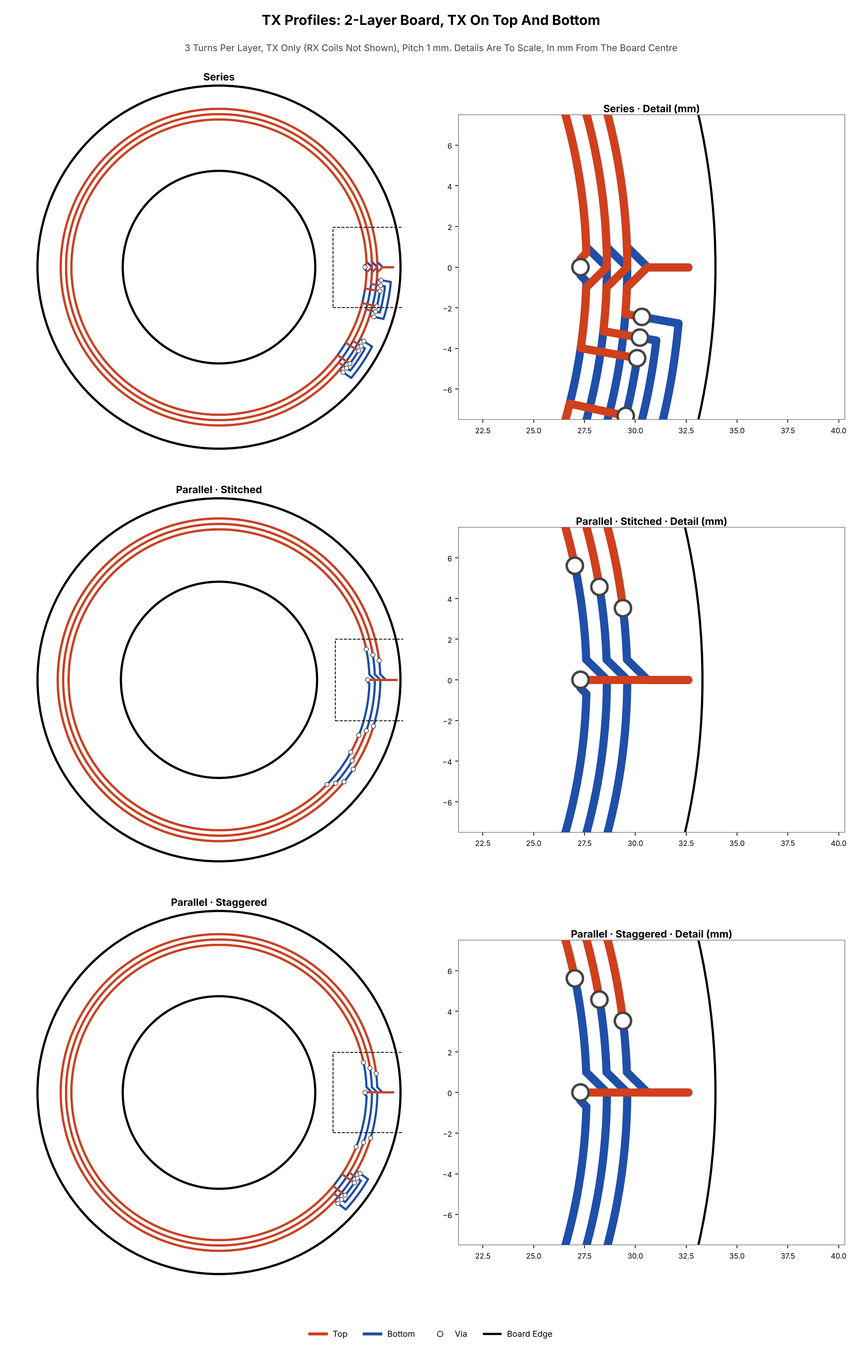
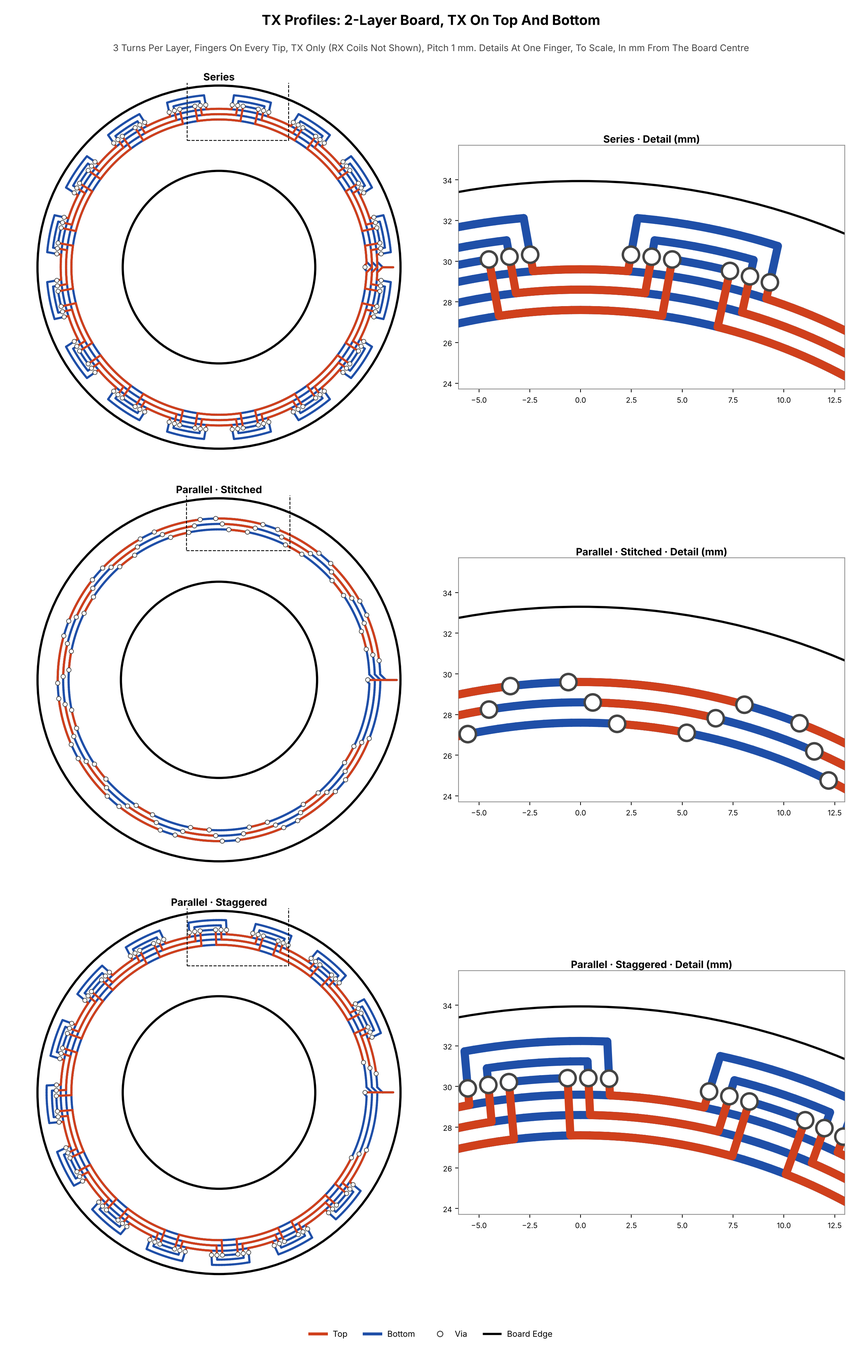
Pictures remade from the current generators; wiki review fixes
Pictures that differ from what the current Single Generator draws are remade:
TX Profiles 2 and 3 (fingers on every tip, close-up at one finger, so that
stitched and staggered differ), TX Profiles 4, Stator 6 and 7, Rotor 1 and 2,
Output 1 (silkscreen step and file), KiCad 1 (current title blocks), and
panel B of Introduction 1 and the README stator/rotor picture.

Wiki text fixed after a full review against the code: dual sub-coil refusal,
parallel TX inductance and Q, the dual TX terminal search, ring 1 over TX1,
the dual outline rule, BAND_SPLIT mode, rotor ranges, the wrong-file warning,
Web Tool facts, RX_TAB_LAYER on 2 layers, parallel Q factors, the checks page,
--keep, DUAL_MODE 4, contact link, next steps. CONTRIBUTING covers the Dual
Generator and both regression suites.

diff --git a/docs/wiki/Checks-Errors-And-Warnings.md b/docs/wiki/Checks-Errors-And-Warnings.md
@@ -66,22 +66,16 @@ DRC cannot see a TX turn touching another TX turn.
 | Resolution | A fixed `STEPS_PER_LOOP` or `TX_STEPS` giving a chord error above 0.01 mm, or a fixed `ROTOR_ARC_STEPS_PER_SECTOR` giving one above 0.05 mm (warning; the chord tolerances are not used for these). With "auto" the count is chosen from the chord tolerance instead; for the RX coils a warning appears if more than 1024 chords per loop would be needed (the count then stops at 1024). With S chords per loop the tip vias can only sit at about 45 + 720 / S to 135 − 720 / S electrical degrees. If `RX_VIA_ELECTRICAL_DEG` is outside that, the vias move to the nearest end, with a warning (with `GENERATOR_MODE = "strict"` the board is refused). |
 | Board edge | `OUTER_EDGE_RADIUS_MM` cutting through the outermost TX turn, the fingers or the TX tail (errors); inner-tip vias running over the centre hole; a via touching copper of another net (error). |
 | Rotor | Rotor metal fraction giving a weak fundamental (warning) or removing a harmonic (info); rotor copper with no width; custom rotor sector count different from `LOOPS`; custom radii out of order, copper too near the bore or the outline; solder-mask opening reaching the bore or outline; `ROTOR_ARC_STEPS_PER_SECTOR` giving a coarse arc (warning), or so few chords that the corners of the rotor copper cross the outline (error). |
-| Files | Stator and rotor file names equal (error); names not ending in `.kicad_pcb`; `OUTPUT_DIR` not a writable folder, or a missing folder that cannot be created (errors). |
+| Files | Stator and rotor file names equal (error); names not ending in `.kicad_pcb` (warning); `OUTPUT_DIR` not a writable folder, or a missing folder that cannot be created (errors). |
 | Chord tolerances | Each of `RX_CHORD_TOLERANCE_MM`, `TX_CHORD_TOLERANCE_MM` and `ROTOR_CHORD_TOLERANCE_MM` must be at least 0.001 mm (error below that). |
 | IC limits | `IC_OSC_MIN_MHZ` not below `IC_OSC_MAX_MHZ` (error); a `RECEIVER_IC` line from an older version (warning: it is ignored, the receiver IC is now set in `IC_Parameters.py`). |
-| Silkscreen | The lead-cutting suggestion, the last step of a run, never stops a generation. A wrong value in `SilkScreenSuggestion_Parameters.py` falls back to its default (warning); no spot with room for a break within `SILKSCREEN_SEARCH_SPAN_DEG`, no two via sites near the TX ends, no free place for a name, or a missing font (warnings: that part is not drawn, the boards are written). See [Silkscreen](Silkscreen.md). |
+| Silkscreen | The lead-cutting suggestion, the last step of a run, never stops a generation. A wrong value in `SilkScreenSuggestion_Parameters.py` falls back to its default (warning); no spot with room for a break within `SILKSCREEN_SEARCH_SPAN_DEG`, no two via sites near the TX ends, or a missing font (warnings: that part is not drawn, the boards are written); no free place for a name (warning: the name is drawn at its default spot, where it may cover other marks or vias). See [Silkscreen](Silkscreen.md). |
 | Page | The stator board, or a rotor board that reaches farther out than the stator, comes close to the top or left of its KiCad page (warning; the page grows right and down automatically). |
 
 Each message names the setting, its value and the limit it broke, and many also say what to change. The Web Tool shows the same messages; see
 [Web Tool](Web-Tool.md#46-errors-and-warnings).
 
-## 23.4 Electrical Checks
-
-The [electrical estimate](Electrical-Estimate.md) adds its own findings, checked against the receiver IC limits in
-`IC_Parameters.py`: oscillator frequency out of range and tank resistance too low. When only the lower end of the tank resistance
-range is below the limit, you get an info line that gives the range, not a warning.
-
-### 23.4.1 TX Shape Checks
+### 23.3.1 TX Shape Checks
 
 | Message | Level |
 |---|---|
@@ -90,18 +84,26 @@ range is below the limit, you get an info line that gives the range, not a warni
 | `TX_STEPPED_ARC_RADIUS_MM` below via radius + half a TX trace + clearance | Warning: the innermost arc comes within the clearance of the via (KiCad's DRC does not see it, all TX is one net) |
 | Smallest gap between TX copper pieces around the via below `MIN_CLEARANCE_MM` | Warning |
 
+## 23.4 Electrical Checks
+
+The [electrical estimate](Electrical-Estimate.md) adds its own findings, checked against the receiver IC limits in
+`IC_Parameters.py`: oscillator frequency out of range and tank resistance too low. When only the lower end of the tank resistance
+range is below the limit, you get an info line that gives the range, not a warning.
+
 ## 23.5 Examples Of Boards The Generator Refuses
 
 | Situation | Why |
 |---|---|
 | 16 loops on a very small board (outer radius below about 26 mm) | The tip vias crowd at small bore radii; a quarter loop needs at least 1.2 mm of arc at the RX inner edge. On many such boards a via touches copper of another net, which is an error; some only get via clearance warnings, and those are refused only with `GENERATOR_MODE = "strict"`. See the board size table in [Project Capabilities](Project-Capabilities.md#51-board-size-range). |
-| 2 sub-coils with 4 or more loops at the default band | The vias that join the sub-coils do not fit between the curves, or a via touches copper of another net. Use 1 sub-coil, fewer loops or a wider band. |
-| `RX_TABS = "all"` on a small board when the TX turns go around the fingers (the fingers on a layer with TX turns) and there are several loops (on a board of 15 to 27 mm with a series TX on Top + Inner-1, 4 loops fail even at the default 0.6 mm pitch) | A TX window under an RX finger would reach the TX terminal. Use `RX_TABS = "single"`, a smaller pitch or a bigger board. A longer pitch also needs longer fingers; the message states the `RX_TAB_LENGTH_MM` needed. |
+| 2 sub-coils at the default band, with 4 loops and fingers (`RX_TABS = "all"` or `"single"`), or with 5 or more loops | A via touches copper of another net, or the vias that join the sub-coils do not fit between the curves. Without fingers (`RX_TABS = "none"`) 4 loops build, with a via clearance warning. Use 1 sub-coil, fewer loops or a wider band. |
+| `RX_TABS = "all"` on a small board when the TX turns go around the fingers (the fingers on a layer with TX turns) and there are several loops (on a board of 15 to 27 mm with a series TX on Top + Inner-1, 4 loops fail at the default 0.6 mm pitch, and a smaller pitch makes it worse) | A TX window under an RX finger would reach the TX terminal; the smaller the pitch, the farther the window reaches. Use `RX_TABS = "single"`, the fingers on a layer without TX turns (`RX_TAB_LAYER`), a parallel TX, fewer `TX_TURNS` or a bigger board. |
 
 ## 23.6 Dual Generator
 
-The Dual Generator's rules live in `Dual Generator/Dual_Generator/Checks/` (`Dual_ParameterRules.py`,
-`Dual_DesignChecks.py`, run by `Dual_CheckParameters.py`). From the `Dual Generator` folder:
+The Dual Generator's rules live in `Dual Generator/Dual_Generator/Checks/`: `Dual_ParameterRules.py`, run by
+`Dual_CheckParameters.py` before anything is built, and `Dual_DesignChecks.py`, run on the built copper. The checker on
+its own builds nothing, so it does not measure the gap between the sets or the rotor rings; `--check` and a run do.
+From the `Dual Generator` folder:
 
 ```bash
 python Dual_Generator/Checks/Dual_CheckParameters.py
@@ -110,8 +112,8 @@ python Dual_Generator/Run/Dual_RunCoilGenerator.py --check    # check only, writ
 
 The run checks in this order: the dual files and the dual rules, the layout mode, then the Single Generator's own
 parameter checks on each set. After the build: the Single Generator's checks on each set's finished copper, then the
-dual checks on the two sets together and on the two rotor rings. A message about one set starts with `set 1:` or
-`set 2:`. `GENERATOR_MODE` in `Dual_Board_Parameters.py` works as on a single board.
+dual checks on the two sets together and on the two rotor rings. A message about one set names it: its explanation
+line starts with `set 1:` or `set 2:`. `GENERATOR_MODE` in `Dual_Board_Parameters.py` works as on a single board.
 
 | Area | What the rules look for |
 |---|---|
@@ -119,7 +121,7 @@ dual checks on the two sets together and on the two rotor rings. A message about
 | Fixed values | Any value in `Dual_Fixed_Parameters.py` other than its fixed one (error, saying why it is fixed). `TX_WIRING = "single"` (error: a dual board uses series or parallel). |
 | Layout mode | A value `DUAL_MODE` needs that is `None`, or a value that must be `None` and is set (error naming every such value, and the mode that matches what is set when one does). A band given by half a pair, or by both pairs (error). A board too small for two bands in mode 1 (error, giving the outer radius it needs). Two sets that run into each other (error, giving the RX2 band start needed), or a bore with no room inside the RX1 band (error). In mode 4 each edge is held against its set's band and TX ring by the Single Generator's own edge rules. |
 | Nets | A net name used twice across the two sets (error: KiCad would join the two coils). |
-| Frequencies | `EXCITATION_FREQ_HZ` of the two sets closer than `TX_FREQ_SEPARATION_MIN` (warning), or within `TX_FREQ_RATIO_TOLERANCE` of a small integer ratio (warning); otherwise an info that two free-running tanks have not been shown to work and must be proven on the first board. |
+| Frequencies | `EXCITATION_FREQ_HZ` of the two sets closer than `TX_FREQ_SEPARATION_MIN` (warning), or within `TX_FREQ_RATIO_TOLERANCE` of a small integer ratio (warning). Whenever the separation is met, also an info that two free-running tanks have not been shown to work and must be proven on the first board. |
 | Layers | Set 2 using all four layers, so no layer is free for set 1's leads (warning). |
 | Rotor settings | `ROTOR_AUTO_COVER_TX = True` for ring 1, which puts the coarse half moon next to the fine band (warning). |
 | Gap between the sets | Measured on the built copper: less than `TRACK_GAP_MM` (modes 1 and 3) or `MIN_CLEARANCE_MM` (modes 2 and 4) is an error that says how far to move the RX2 band out; a difference from the layout formulas larger than `LAYOUT_TOLERANCE_MM` is a warning. Copper of one set inside the other set's ring is always an error. |
@@ -130,6 +132,7 @@ dual checks on the two sets together and on the two rotor rings. A message about
 For example, the default board with a parallel TX at the default pitch:
 
 ```text
+ERROR   TX_PITCH_MM conflicts with VIA_DIAMETER_MM and TX_WIRING
 set 1: a pitch of 0.35 mm is too small for the stitching vias of the parallel TX (a turn next to a 0.6 mm via must bend 0.21 mm away and would then touch the turn beyond it). Raise TX_PITCH_MM to at least 0.43 or use smaller vias
 ```
 

diff --git a/docs/wiki/Parameter-Reference-Single-Generator.md b/docs/wiki/Parameter-Reference-Single-Generator.md
@@ -2,7 +2,7 @@
 
 Every setting of the Single Generator lives in a parameter file in `Single Generator/Parameters/`. These are the only files you edit. Units are millimetres,
 degrees and hertz unless a name says otherwise. The **Range** column is what the parameter checker accepts; "None"
-usually means the generator works the value out itself (the row says what it does). The Web Tool shows the same names in its Advanced mode, except the output settings of 21.1.1 (`GENERATOR_MODE` is its Strict switch), and the electrical estimate settings of 21.1.4 and 21.5, which it does not use. The Dual Generator's files are described in
+usually means the generator works the value out itself (the row says what it does). The Web Tool shows the same names in its Advanced mode, except the output settings of 21.1.1 (`GENERATOR_MODE` is its Strict switch), and the electrical estimate settings of 21.1.4 and 21.5, which it does not use. `VIA_TYPE` and the silkscreen settings of 21.6 are not in it either: the Web Tool runs an older copy of the generator, without blind vias and without the silkscreen suggestion. The Dual Generator's files are described in
 [Parameter Reference Dual Generator](Parameter-Reference-Dual-Generator.md).
 
 `Parameters.py` only gathers the five coil parameter files and is not edited. `SilkScreenSuggestion_Parameters.py` is read by the last step of a run (21.6). `OptimizerParameters.py` belongs to the optimizer, which is
@@ -101,7 +101,7 @@ two values of a pair go together. See [Web Tool](Web-Tool.md) for the None switc
 | Name | Default | Range | Meaning |
 |---|---|---|---|
 | `RX_TABS` | `"all"` | `all`, `single`, `none` | Fingers that leave the RX band, cross over the TX turns and return, so the coils can be broken out outside the TX ring. `all` = every outer tip of every phase; `single` = one per coil (two fingers in all), on neighbouring outer tips, with the TX terminal placed as close to them as the clearances allow; `none` = no fingers. |
-| `RX_TAB_LAYER` | `"auto"` | auto, 1 to 4 | Layer of the fingers. "auto" = the RX layer nearest the top that carries no TX turn. When both RX layers carry TX turns, it is the RX layer nearest the top, and the TX makes way for the fingers there. |
+| `RX_TAB_LAYER` | `"auto"` | auto, 1 to 4 (on 2 layers: auto, 1 or 4) | Layer of the fingers. "auto" = the RX layer nearest the top that carries no TX turn. When both RX layers carry TX turns, it is the RX layer nearest the top, and the TX makes way for the fingers there. |
 | `RX_TAB_LENGTH_MM` | 3.0 | ≥ 0 (*only if* fingers) | The exact finger length: the finger reaches `OUTSIDE_RADIUS_MM` plus this. It is never changed for you. When it is too short to clear the outermost TX turn (or the outermost go-around bracket) the generator stops and names the length it needs ("Set RX_TAB_LENGTH_MM to at least ..."). A longer TX pitch needs longer fingers. A spiral TX (`TX_SHAPE = "spiral"`) needs them one pitch longer, since its last turn ends one pitch farther out. With the defaults that is at least 3.5 mm, so the default 3.0 is too short. |
 | `RX_TAB_WIDTH_MM` | 1.0 | > 0 (*only if* fingers) | Spacing of the finger's two legs. Keep at 0.6 or more for etching; narrower disturbs the signal less. A spacing too wide for the loop count or the finger length is cut back, with a warning that gives the spacing used. The legs may span at most about 90 electrical degrees, and the straight middle piece between them must not dip back into the RX band (a longer finger allows wider legs). |
 
@@ -132,7 +132,7 @@ Layers are numbered 1 = Top, 2 = Inner-1, 3 = Inner-2, 4 = Bottom (a 2-layer boa
 
 | Name | Default | Range | Meaning |
 |---|---|---|---|
-| `TX_WIRING` | `"single"` | `single`, `series`, `parallel` | How many layers carry TX turns and how they are joined. `single`: `TX_TURNS` turns on `TX_LAYER_A`, the inner tail on the underpass layer. `series`: `TX_TURNS` turns on each of two layers, joined by a via at the inner end (two spirals, same sense, fields add). `parallel`: the same turns on both layers, stitched through vias around the terminal. It gives about 6 % more signal than Top alone (Analyser figure, to be verified). In the electrical estimate the Q is only about 1.3 to 1.8 times higher, since the inductance drops as well. It is about 1.3 times with the stitched break style on a 1.6 mm 2-layer board. A thinner board, the staggered break style (about 1.45 times) or a 4-layer board give more, up to about 1.8 times with Top and Inner 1. Put `TX_LAYER_A` on Top for parallel. Capitals do not matter. |
+| `TX_WIRING` | `"single"` | `single`, `series`, `parallel` | How many layers carry TX turns and how they are joined. `single`: `TX_TURNS` turns on `TX_LAYER_A`, the inner tail on the underpass layer. `series`: `TX_TURNS` turns on each of two layers, joined by a via at the inner end (two spirals, same sense, fields add). `parallel`: the same turns on both layers, stitched through vias around the terminal. It gives about 6 % more signal than Top alone (Analyser figure, to be verified). In the electrical estimate the Q is only about 1.3 to 1.8 times higher, since the inductance drops as well. It is about 1.3 times with the stitched break style on a 1.6 mm 2-layer board. A thinner board, the staggered break style (about 1.45 times) or a 4-layer board give more: with Top and Inner 1 about 1.55 times stitched, 1.7 times staggered and 1.8 times without fingers. Put `TX_LAYER_A` on Top for parallel. Capitals do not matter. |
 | `TX_LAYER_A` | 4 | 1 to 4 | The TX layer (or, for series, the spiral that runs inwards from the terminal). |
 | `TX_LAYER_B` | 1 | 1 to 4, different (*only if* series or parallel) | The second TX layer (or the spiral that runs back out). |
 | `TX_SERIES_UNDERPASS_LAYER` | `"auto"` | auto, 1 to 4 (*only if* single or series) | Layer of the inner tail (single) and of the go-around brackets. |

diff --git a/docs/wiki/Web-Tool.md b/docs/wiki/Web-Tool.md
@@ -2,8 +2,9 @@
 
 Design the stator and rotor boards of a sinusoidal inductive encoder in your browser, see them straight away,
 and download them as KiCad files. No installation and no account: everything runs on your own computer, and
-nothing is sent to a server. The web tool runs the same generator as the desktop version, so the same settings
-give the same boards.
+nothing is sent to a server. The web tool runs the Single Generator unchanged, so the same settings give the same
+boards. It runs the copy on the `WebUI` branch, which is older than `main`: it has no silkscreen suggestion and no blind
+vias.
 
 **[Open The Web Tool](https://ro-h-bots.blogspot.com/p/inductive-encoder-sinusoidal-coil.html)**
 
@@ -25,7 +26,7 @@ The tool adapts to both landscape and portrait monitors. Both pictures show a ge
 
 ## 4.2 Features
 
-- **Basic and Advanced modes.** Basic has the main settings; Advanced has every parameter except the output settings and the two that only feed the electrical estimate. Both use the same
+- **Basic and Advanced modes.** Basic has the main settings; Advanced has every parameter except the output settings and the ten that only feed the electrical estimate. Both use the same
   four tabs: Board, RX, TX and Rotor, and a change in one mode shows in the other.
 - **Live board preview** of the stator, the rotor, or both together, with each copper layer in its own colour
   (Top red, Bottom blue, Inner-1 green, Inner-2 dark yellow), the same colours as the pictures in this wiki except a lighter blue for Bottom.
@@ -63,7 +64,7 @@ Every Basic setting is also in Advanced, under the same name.
 
 ### 4.4.2 Advanced
 
-Every parameter of the generator, grouped as in the parameter files, with two exceptions. The Output block of `Board_Parameters.py` (folder, file names, board centre, page size and `GENERATOR_MODE`, which is the **Strict** switch) is not shown. Neither are `RECEIVER_IC` and `COPPER_THICKNESS_UM`, which only feed the electrical estimate. Each one shows its parameter name, and the
+Every parameter of the generator, grouped as in the parameter files, with two exceptions. The Output block of `Board_Parameters.py` (folder, file names, board centre, page size and `GENERATOR_MODE`, which is the **Strict** switch) is not shown. Neither are the ten settings that only feed the electrical estimate: `COPPER_THICKNESS_UM`, `COPPER_CONDUCTIVITY_S_M`, `TX_AC_RESISTANCE_FACTOR`, `STACKUP_PREPREG_MM`, `TANK_CAP_SERIES` and the five of `IC_Parameters.py` (`IC_NAME`, `IC_OSC_MIN_MHZ`, `IC_OSC_MAX_MHZ`, `IC_MIN_RP_OHM`, `IC_SPLIT_TANK_CAPS`). Each one shows its parameter name, and the
 **↺** button puts it back to its starting value. Settings the current design does not use are greyed out and
 marked "not used now". A changed setting gets a dot before its name.
 
@@ -91,7 +92,7 @@ The RX band is the ring the receiver coils swing across. You can give it in one 
 - **Strict** (`GENERATOR_MODE = "strict"`) turns every warning about the finished boards into an error, so such a design is not generated.
 - **Checks** lists the errors and warnings. Turn on **Info** to also see the generator's notes.
 - **Summary** shows the generator's full report on the stator and the rotor.
-- **Download Zip** gives both boards, `Parameters.txt` and the four parameter files. **Download Stator** and
+- **Download Zip** gives both boards, `Parameters.txt` and the five parameter files (Board, RX, TX, Rotor and IC). **Download Stator** and
   **Download Rotor** give one `.kicad_pcb` each.
 
 ## 4.6 Errors And Warnings
@@ -134,7 +135,7 @@ The preview tools only change what you see, never the boards.
 
 ## 4.8 Saving, Sharing And Starting Over
 
-- **Export Parameters** downloads the four parameter files, ready for the desktop version.
+- **Export Parameters** downloads the five parameter files, ready for the desktop version.
 - **Import Parameters** loads a `Parameters.txt` from any run (web or desktop) or your own parameter files.
 - **Share Link** copies a link that opens the tool with your design. Only your changes are in the link, and
   nothing is uploaded.
@@ -142,7 +143,7 @@ The preview tools only change what you see, never the boards.
 
 ## 4.9 What The Web Tool Does Not Include
 
-The web tool makes the boards only. The receiver IC support, the electrical estimate, the optimizer and the analyser of the desktop project are not part of it.
+The web tool makes the boards only. The receiver IC support, the electrical estimate, the optimizer and the analyser of the desktop project are not part of it, and neither are the silkscreen suggestion, blind vias (`VIA_TYPE`) and the Dual Generator.
 
 ## 4.10 How It Runs
 
@@ -150,7 +151,7 @@ The Web Tool is a static site (`WebGUI/` on the `WebUI` branch): `index.html`, `
 `BoardPreview.js`, `Tooltips.js`, `PyodideWorker.js` and `WebGenerator.py`. There is no server. The browser loads
 Pyodide (Python and numpy compiled to WebAssembly) from the jsDelivr CDN, fetches the generator (`Single Generator/Generator/` and `Single Generator/Parameters/`)
 from the same site, and runs them unchanged in a Web Worker. For the same settings the KiCad output is
-byte-identical to the desktop run. The generator is never modified for the web.
+byte-identical to a desktop run of the same generator copy. The generator is never modified for the web.
 
 The tool is published with GitHub Pages and embedded in a page on the blog. Visitors' browsers fetch the
 generator's `.py` files from Pages, so a new release updates the tool.

diff --git a/docs/wiki/Stator-Features-Dual-Generator.md b/docs/wiki/Stator-Features-Dual-Generator.md
@@ -56,8 +56,10 @@ stay below half an outer period, which is 180 / `LOOPS` of set 2 mechanical degr
 
 `RX_SUBCOILS` (1, 2 or 3) and `RX_SUBCOIL_SPLIT_ELEC_DEG` work for each set as on a single board. They are most useful
 on the 1-loop inner set, where the harmonics matter most. Each sub-coil adds junction vias, so the band needs room
-for them: on the default inner band (8.45 to 11.7 mm) the checker refuses two sub-coils ("LOOPS conflicts with
-RX_SUBCOILS, RX_TRACE_WIDTH_MM, VIA_DIAMETER_MM and MIN_CLEARANCE_MM"). Widen the inner band, or use smaller vias.
+for them: on the default inner band (8.45 to 11.7 mm) two sub-coils pass the checker, but the run stops while it
+builds set 1 ("RX_SUBCOILS conflicts with RX_SUBCOIL_SPLIT_ELEC_DEG, RX_VIA_ELECTRICAL_DEG and LOOPS", then "set 1: no
+crossing of neighbouring sub-coils is clear enough for the via that joins them"). Widen the inner band, or use smaller
+vias (0.45 mm builds, 0.5 mm does not).
 
 ![Dual Stator 2: RX Sub-Coils](https://raw.githubusercontent.com/RolandThsive/Inductive-Encoder-Sinusoidal-Coil-Generator/main/docs/images/dual_stator_2_subcoils.png)
 
@@ -90,7 +92,7 @@ the same in every picture.*
 | `TX_WIRING` | What It Builds |
 |---|---|
 | `"series"` (default) | The turns on the two TX layers in series, joined by one via at the inner end: 2 × `TX_TURNS` turns. The two ends sit on top of each other one pitch outside the last turn, one on each TX layer |
-| `"parallel"` | The same turns on both layers in parallel, stitched through vias at the terminal. About 6 % more receiver signal and twice the Q in the model, half the inductance. The inner end comes out on an inner tail that ends one pitch outside the last turn, no further |
+| `"parallel"` | The same turns on both layers in parallel, stitched through vias at the terminal: `TX_TURNS` turns, not 2 × `TX_TURNS`. In the estimate that is a quarter of the series ring's inductance and about the same Q (set 1 at pitch 0.45 mm: 2.81 µH and Q 10 to 21 in series, 0.70 µH and Q 9 to 19 in parallel). The inner end comes out on an inner tail that ends one pitch outside the last turn, no further |
 
 A parallel ring needs room for its stitching vias between the turns: with the default 0.6 mm vias the checker asks for
 a pitch of at least 0.43 mm, so the default pitch of 0.35 mm works only for a series ring.
@@ -103,8 +105,11 @@ both rows. Left: the whole board. Middle and right: the TX ends of the inner set
 
 ### 16.3.3 Where Each Set's TX Ends Go
 
-There is no TX terminal search on a dual board. Each set is turned on its own so that its TX ends sit at its own
-angle, `TERMINAL_1_DEG` for set 1 (default 180°, the left) and `TERMINAL_2_DEG` for set 2 (default 0°, the right).
+Each set looks for its TX terminal as a single board does, at the place with the largest gap from its own RX copper.
+Then, instead of turning the terminal to 0°, each set is turned on its own so that its TX ends sit at its own angle,
+`TERMINAL_1_DEG` for set 1 (default 180°, the left) and `TERMINAL_2_DEG` for set 2 (default 0°, the right). The run
+prints both, for set 1 on the default board: "TX terminal: found at 135.00 deg of the RX pattern (0.639 mm from the
+nearest RX copper); the board is turned by 45.00 deg so that it sits at 180 deg".
 Angles run from the +x axis of the page towards +y, down the KiCad page: 0 = right, 90 = bottom, 180 = left, 270 =
 top. Different angles keep the two sets' breakouts apart. Each set's RX pattern zero lands wherever its turn puts it;
 `Parameters.txt` prints both.

diff --git a/docs/wiki/Parameter-Reference-Dual-Generator.md b/docs/wiki/Parameter-Reference-Dual-Generator.md
@@ -11,7 +11,8 @@ a dual board has, and says where a name differs from the single one.
 
 > [!NOTE]
 > Defaults are those of the parameter files in `Dual Generator/Parameters/` on `main`. A name put in the wrong dual file
-> is ignored with a warning that names the file it belongs in.
+> is ignored with a warning that names the file it belongs in. The silkscreen names are the exception: in another file
+> the warning only says the name is not a parameter of this program, and it is ignored too.
 
 ## 22.1 The Files
 
@@ -62,7 +63,7 @@ pictures of each mode.
 | `OUTER_EDGE_TAIL_MARGIN_MM` | 0.7 | ≥ 0 | Outline = TX2 ring end plus this, at least (there is no tail: the ring ends one pitch outside its last turn) |
 | `EDGE_LINE_WIDTH_MM` | 0.05 | > 0 up to 1 | Line width of the `Edge.Cuts` circles |
 | `TRACK_GAP_MM` | None | > 0 or None | The copper-free ring between the sets, from the outermost copper of set 1 (its TX1 ring ends) to the innermost copper of set 2 (the RX2 band start minus half an RX trace or a via radius, whichever is larger). Modes 1 and 3: the gap to leave. Modes 2 and 4: must be `None`; the measured gap must be at least `MIN_CLEARANCE_MM` |
-| `LAYOUT_TOLERANCE_MM` | 0.05 | 0 to 1 | The rounding allowance: the built copper may differ from the layout formulas by this much before the run warns, and the outline gets this much extra room when ring 2 covers the TX2 turns. 0 = no allowance |
+| `LAYOUT_TOLERANCE_MM` | 0.05 | 0 to 1 | The rounding allowance: the built copper may differ from the layout formulas by this much before the run warns. In modes 1 to 3, when ring 2 covers the TX2 turns, it is also the room left between ring 2 and the outline beyond `ROTOR_AUTO_EDGE_CLEARANCE_MM` (half the edge line plus the polygon sag, when that is more). 0 = no allowance |
 | `BAND_SPLIT` | 0.5 | between 0 and 1, both excluded | Mode 1 only: set 1's share of the free radial width. 0.5 = equal band widths; a 1x / 16x board is usually near 0.5 |
 
 ### 22.2.4 TX Ends And Frequencies
@@ -103,10 +104,10 @@ each set has its own, in `Dual_TX1` / `Dual_TX2`.
 | `ROTOR_TRACK_GAP_MM` | 2.0 | ≥ 0 | Bare ring that must stay between ring 1's outer radius and ring 2's inner radius. Smaller is an error naming the extension to change |
 | `ROTOR_1_TO_RX2_MM` | 3.0 | ≥ 0 | Least distance from ring 1's outer radius to the innermost RX2 copper; smaller is a warning. Use 5.0 when the radius allows it |
 | `ROTOR_2_TO_RX1_MM` | 2.0 | ≥ 0 | Least distance from ring 2's inner radius to the outermost RX1 copper; smaller is a warning |
-| `ROTOR_PCB_THICKNESS_MM` | None | > 0 or None | Rotor thickness written into the KiCad file; None = `PCB_THICKNESS_MM` |
+| `ROTOR_PCB_THICKNESS_MM` | None | > 0 up to 20, or None | Rotor thickness written into the KiCad file; None = `PCB_THICKNESS_MM` |
 | `ROTOR_ARC_STEPS_PER_SECTOR` | `"auto"` | `"auto"` or 8 to 5000 | Points on every arc of a sector |
 | `ROTOR_CHORD_TOLERANCE_MM` | 0.001 | ≥ 0.001 | How far the polygon may lie outside the true circle |
-| `ROTOR_SOLDER_MASK_EXPANSION_MM` | −1 | up to 5 | Mask opening over the rotor copper, the same for both rings (−1 = the mask stays over the copper) |
+| `ROTOR_SOLDER_MASK_EXPANSION_MM` | −1 | −1, or 0 to 5 | Mask opening over the rotor copper, the same for both rings (−1 = the mask stays over the copper) |
 
 ## 22.3 RX (`Dual_RX1_Parameters.py`, `Dual_RX2_Parameters.py`)
 

diff --git a/docs/wiki/TX-Profiles.md b/docs/wiki/TX-Profiles.md
@@ -45,13 +45,16 @@ on a layer that carries TX turns, the turns make way for it. The three possible 
 
 ![TX Profiles 2: 2-layer board, TX on Top and Bottom](https://raw.githubusercontent.com/RolandThsive/Inductive-Encoder-Sinusoidal-Coil-Generator/main/docs/images/tx_profiles_2_two_layer_pair.png)
 
-*TX Profiles 2. A 2-layer board with the TX on Top and Bottom: series, parallel stitched and parallel staggered. Left: the whole board. Right: a to-scale close-up of the TX terminal (the RX fingers are not drawn, but the TX makes way for them where they would cross).*
+*TX Profiles 2. A 2-layer board with the TX on Top and Bottom and an RX finger on Top at every tip (`RX_TABS = "all"`): series, parallel stitched and parallel staggered. Left: the whole board. Right: a to-scale close-up at the top of the ring. The RX fingers are not drawn, but the TX makes way for them where they would cross: the series and the staggered TX go around each finger on Bottom, the stitched TX carries on along its Bottom turns between two vias.*
+
+With `RX_TABS = "single"` both fingers sit next to the TX terminal. A parallel TX is always stitched around its terminal,
+so there both fingers fall inside the stitched part and `TX_PARALLEL_BREAK_STYLE` changes nothing.
 
 ## 9.4 4-Layer Board: Combinations
 
 A 4-layer board has Top (1), Inner 1 (2), Inner 2 (3) and Bottom (4). The TX can use any one layer or any
 two different layers (`TX_LAYER_A`, `TX_LAYER_B`). The TX only has to make way for a finger when the
-finger's layer (`RX_TAB_LAYER`) carries TX turns, so in the picture below the fingers are set on Top.
+finger's layer (`RX_TAB_LAYER`) carries TX turns, so in the picture below the fingers are set on Top (`RX_TAB_LAYER = 1`), one at every tip.
 A TX that does not use the finger's layer is never interrupted.
 
 | Combination | Settings |
@@ -65,7 +68,7 @@ A TX that does not use the finger's layer is never interrupted.
 
 ![TX Profiles 3: 4-layer board combinations](https://raw.githubusercontent.com/RolandThsive/Inductive-Encoder-Sinusoidal-Coil-Generator/main/docs/images/tx_profiles_3_four_layer.png)
 
-*TX Profiles 3. Six TX combinations on a 4-layer board (RX on Top and Inner-1), a to-scale close-up beside the TX terminal. The TX on Bottom only has no turns on the finger layer, so it runs unbroken.*
+*TX Profiles 3. Six TX combinations on a 4-layer board (RX on Top and Inner-1, a finger on Top at every tip), a to-scale close-up at one finger at the top of the ring. The TX on Bottom only has no turns on the finger layer, so it runs unbroken. The TX on Top only goes around the finger on Inner-1, its underpass layer.*
 
 The recommended combination is described in the
 [Quick Guide To Parameters Selections](Quick-Guide-To-Parameters-Selections.md#1541-recommended-combination).

diff --git a/CONTRIBUTING.md b/CONTRIBUTING.md
@@ -24,7 +24,8 @@ contributions of every kind are welcome, from a measurement on a real board to a
 ## How Can You Get Involved?
 
 1. Read the [README](README.md) and the [Wiki](https://github.com/RolandThsive/Inductive-Encoder-Sinusoidal-Coil-Generator/wiki).
-2. Run the generator from the `Single Generator` folder (see the Quick Start in the README) and look at what it builds.
+2. Run a generator from the `Single Generator` or the `Dual Generator` folder (see the Quick Start in the README) and
+   look at what it builds.
 3. Open an issue on GitHub to report a problem, ask a question or propose a change before starting larger work.
 4. Send a pull request for a fix or improvement. Keep it focused, so that it is easy to review.
 5. For measurements, hardware, funding or commercial use, get in touch by email:
@@ -35,9 +36,13 @@ contributions of every kind are welcome, from a measurement on a real board to a
 - **Be honest about validation.** Say whether a number comes from a model or from a measurement, and keep the
   hardware-validation notice wherever figures are given.
 - **Keep changes small and clear.** One topic per pull request, with a short description of what changed and why.
-- **Check before you send.** Run the generator (`python Generator/Run/RunCoilGenerator.py --check` from the `Single
-  Generator` folder) and make sure the parameter and geometry checks still pass.
-- **Parameters stay in the parameter files.** The only files a user edits are in `Single Generator/Parameters/`.
+- **Check before you send.** Run the checks of the generator you changed (`python Generator/Run/RunCoilGenerator.py
+  --check` from the `Single Generator` folder, `python Dual_Generator/Run/Dual_RunCoilGenerator.py --check` from the
+  `Dual Generator` folder) and its regression tests (`python "Single Generator/Regression Testing/run_regression.py"`
+  and `python "Dual Generator/Regression Testing/run_regression.py"` from the repository root). Every pull request runs
+  both suites on GitHub.
+- **Parameters stay in the parameter files.** The only files a user edits are in `Single Generator/Parameters/` and
+  `Dual Generator/Parameters/`.
 - **Update the documentation with the code.** If a parameter, command or output changes, change the wiki and README to
   match.
 - **Do not include secrets or personal data** in issues, pull requests or measurement files.

diff --git a/docs/wiki/Board-Features-Dual-Generator.md b/docs/wiki/Board-Features-Dual-Generator.md
@@ -51,12 +51,17 @@ bore | RX1 band | TX1 ring | TRACK_GAP_MM | RX2 band | TX2 ring | outline
   outside the last turn) to the innermost copper of set 2 (the RX2 band start minus half an RX trace or a via radius,
   whichever is larger).
 - The outline leaves at least `OUTER_EDGE_OFFSET_MM` (2.0 mm) past the RX2 band and `OUTER_EDGE_TAIL_MARGIN_MM` (0.7 mm)
-  past the TX2 ring. When ring 2 of the rotor covers the TX2 turns, the outline gets `LAYOUT_TOLERANCE_MM` of extra room.
+  past the TX2 ring. In modes 1 to 3, when ring 2 of the rotor covers the TX2 turns (the default), the outline must also
+  hold ring 2: the outermost TX2 copper plus `ROTOR_AUTO_TX_OVERHANG_MM` (0.5 mm), `ROTOR_AUTO_EDGE_CLEARANCE_MM`
+  (0.5 mm) and `LAYOUT_TOLERANCE_MM` (0.05 mm, or half the edge line plus the sag of the ring's polygon when that is
+  more). On the default board this rule sets the outline: 25.825 + 0.5 + 0.5 + 0.05 = 26.875 mm, where the first two
+  rules ask for 25.9 and 26.8 mm.
 
 ![Dual Board 1: From The Centre Out](https://raw.githubusercontent.com/RolandThsive/Inductive-Encoder-Sinusoidal-Coil-Generator/main/docs/images/dual_board_1_layout.png)
 
 *Dual Board 1. The default board measured on the written files. Each stator bar is the copper of one coil (traces with
-their width, vias with their diameter); the rotor bars are the two rings. The arrows are the gap between the sets
+their width, vias with their diameter), grey because each coil spans two layers; the rotor bars are the two rings,
+red because the rotor copper is on Top. The arrows are the gap between the sets
 (3.725 mm) and the three rotor distances of [Rotor Features - Dual Generator](Rotor-Features-Dual-Generator.md#173-distances-between-the-rings).*
 
 The gap is **not** what isolates the two sets. A balanced RX band sees no net flux from a round TX ring, however close.

diff --git a/docs/wiki/Glossary.md b/docs/wiki/Glossary.md
@@ -48,7 +48,7 @@
 | **Set 1, set 2** | The two coil sets of a dual board: set 1 inside, set 2 outside. Each has its own RX pair, TX ring and IC, and its files end in 1 or 2 (`Dual_RX1_Parameters.py`, ...). |
 | **Coarse and fine track** | On a dual board, set 1 is the coarse track (1 loop by default): its absolute angle says which period of the fine track (set 2, 16 loops by default) the rotor is in, and the fine track gives the resolution. The coarse error must stay below 180 / `LOOPS` of set 2 degrees. |
 | **Ring 1, ring 2** | The two rings of copper sectors on the dual rotor disc, facing set 1 and set 2. |
-| **`DUAL_MODE`** | Which radii of a dual board you give and which the generator computes: 1 = edges and gap, 2 = both bands, 3 = one band and the gap, 4 = everything. |
+| **`DUAL_MODE`** | Which radii of a dual board you give and which the generator computes: 1 = edges and gap, 2 = both bands, 3 = one band and the gap, 4 = both bands and both edges (the gap is then measured, not given). |
 | **Track gap** | `TRACK_GAP_MM`: the copper-free ring between the two sets of a dual board. |
 | **Band split** | `BAND_SPLIT`: in `DUAL_MODE` 1, set 1's share of the free width for the two RX bands. |
 | **Terminal angle** | `TERMINAL_1_DEG`, `TERMINAL_2_DEG`: where each set's TX ends sit on a dual board; each set is turned to put them there. |

diff --git a/docs/wiki/Rotor-Features-Dual-Generator.md b/docs/wiki/Rotor-Features-Dual-Generator.md
@@ -52,7 +52,9 @@ The two rings use the same edge settings as a single rotor, with different defau
 Ring 1 is the dangerous one. A 1-lobe target is a half moon, so any of its field that reaches the RX2 band modulates
 the fine signal once per turn: a first-harmonic error that no fine-track calibration removes. That is why ring 1 does
 not cover TX1 by default. Covering it would gain a few percent of coarse signal, which the IC's automatic gain control
-does not need, and would put the half moon about half a millimetre from the fine band; the generator warns about it.
+does not need, and would carry the half moon 0.5 mm past the outermost TX1 turn into the gap between the sets: on the
+default board it then reaches r = 14.12 mm and ends 3.57 mm inside the RX2 copper instead of 6.00 mm. The generator
+warns about it.
 
 ![Dual Rotor 2: Ring Edges And Metal Fraction](https://raw.githubusercontent.com/RolandThsive/Inductive-Encoder-Sinusoidal-Coil-Generator/main/docs/images/dual_rotor_2_edges.png)
 

diff --git a/docs/wiki/Quick-Guide-To-Parameters-Selections-Dual-Generator.md b/docs/wiki/Quick-Guide-To-Parameters-Selections-Dual-Generator.md
@@ -2,8 +2,8 @@
 
 A dual board is two coil sets on one board, so before it is built you choose how the radii are given: which of the two
 RX bands, the two board edges and the gap between the sets you set, and which the generator works out. That choice is
-`DUAL_MODE`, in `Dual_Board_Parameters.py`. This page shows the four modes, the two settings that only modes 1 and 3
-use (`BAND_SPLIT` and `TRACK_GAP_MM`), and a starting point for the rest. Every picture is a run of the Dual Generator
+`DUAL_MODE`, in `Dual_Board_Parameters.py`. This page shows the four modes, the two settings that only some modes
+use (`BAND_SPLIT` in mode 1, `TRACK_GAP_MM` in modes 1 and 3), and a starting point for the rest. Every picture is a run of the Dual Generator
 with only the named settings changed, silkscreen off; colour shows the copper layer (Top red, Inner-1 green, Inner-2
 dark yellow). Each parameter is described in full in the
 [Parameter Reference Dual Generator](Parameter-Reference-Dual-Generator.md).

diff --git a/docs/wiki/Immediate-Next-Steps.md b/docs/wiki/Immediate-Next-Steps.md
@@ -12,11 +12,13 @@
 
 The order of the work is set by the milestones in
 [`MILESTONES.md`](https://github.com/RolandThsive/Inductive-Encoder-Sinusoidal-Coil-Generator/blob/main/MILESTONES.md):
-the generators first (single, dual, arc and linear), then the testing of each, the corrections from the measurements,
+the generators first (the single and the dual generator are done, the arc and the linear one are next), then the
+testing of each, the corrections from the measurements,
 and working examples.
 
-If you can help with boards, equipment or measurements, please see [Licensing](License.md) for
-contact details.
+If you can help with boards, equipment or measurements, please see
+[Licensing in the README](https://github.com/RolandThsive/Inductive-Encoder-Sinusoidal-Coil-Generator#licensing) for
+the contact details.
 
 | Previous | Next |
 |:---|---:|
